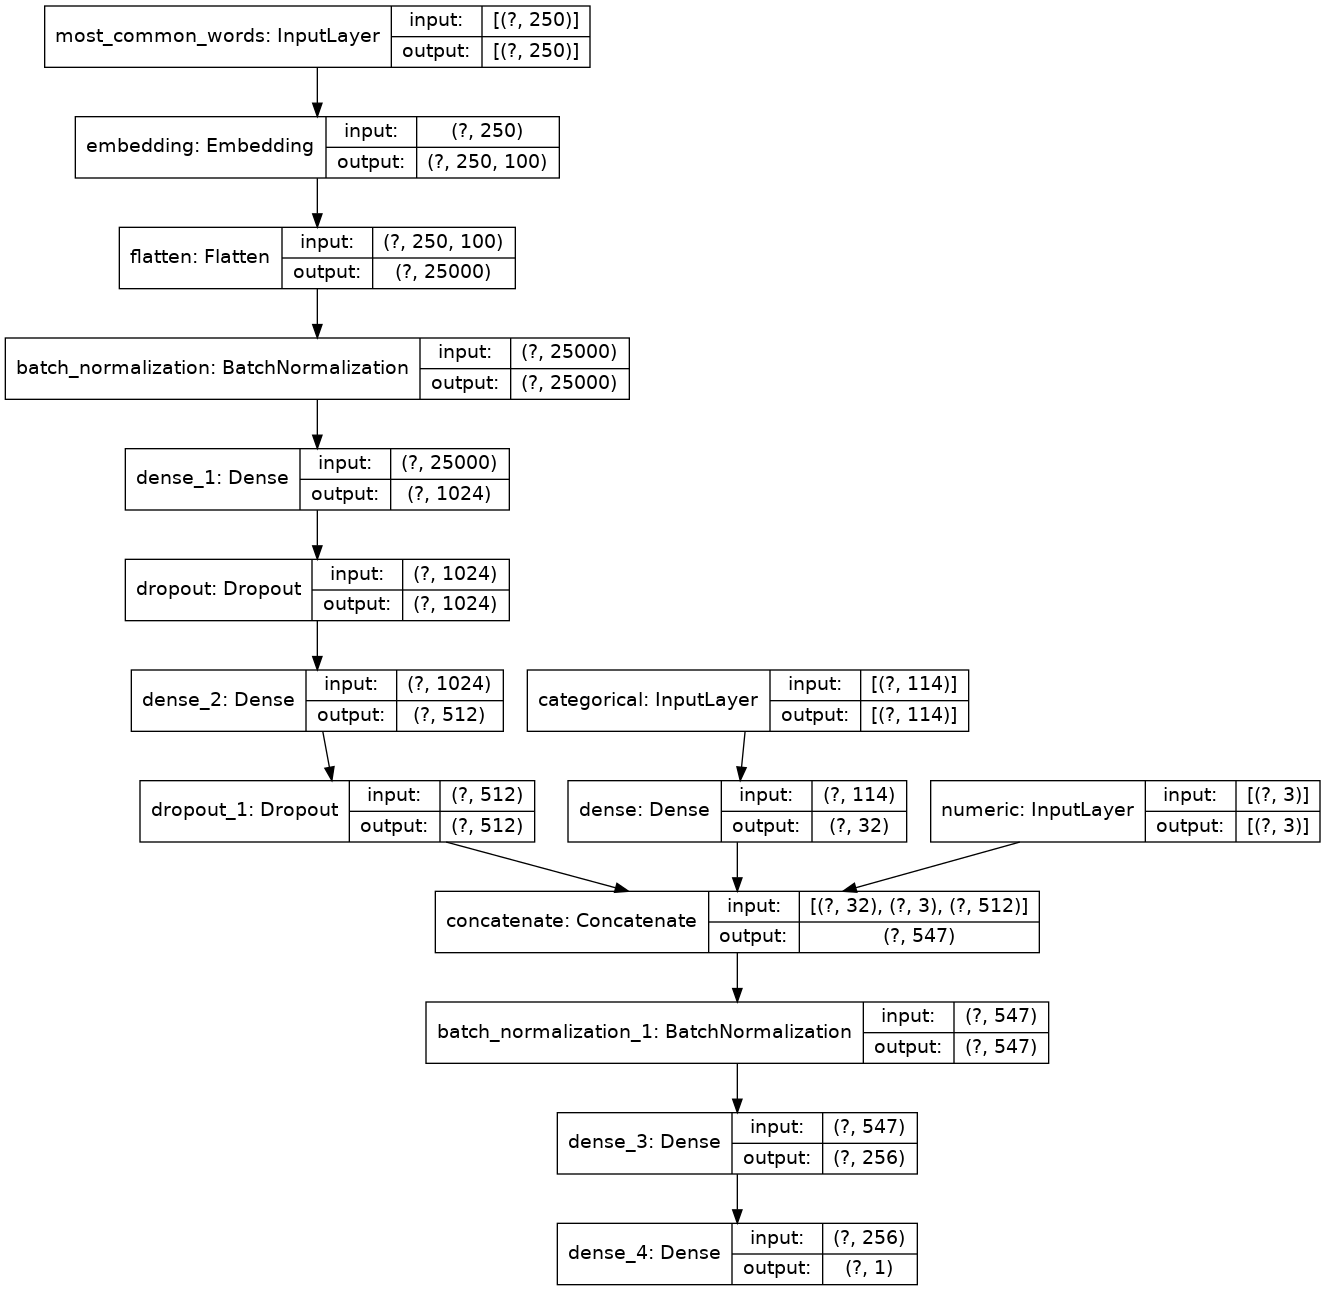
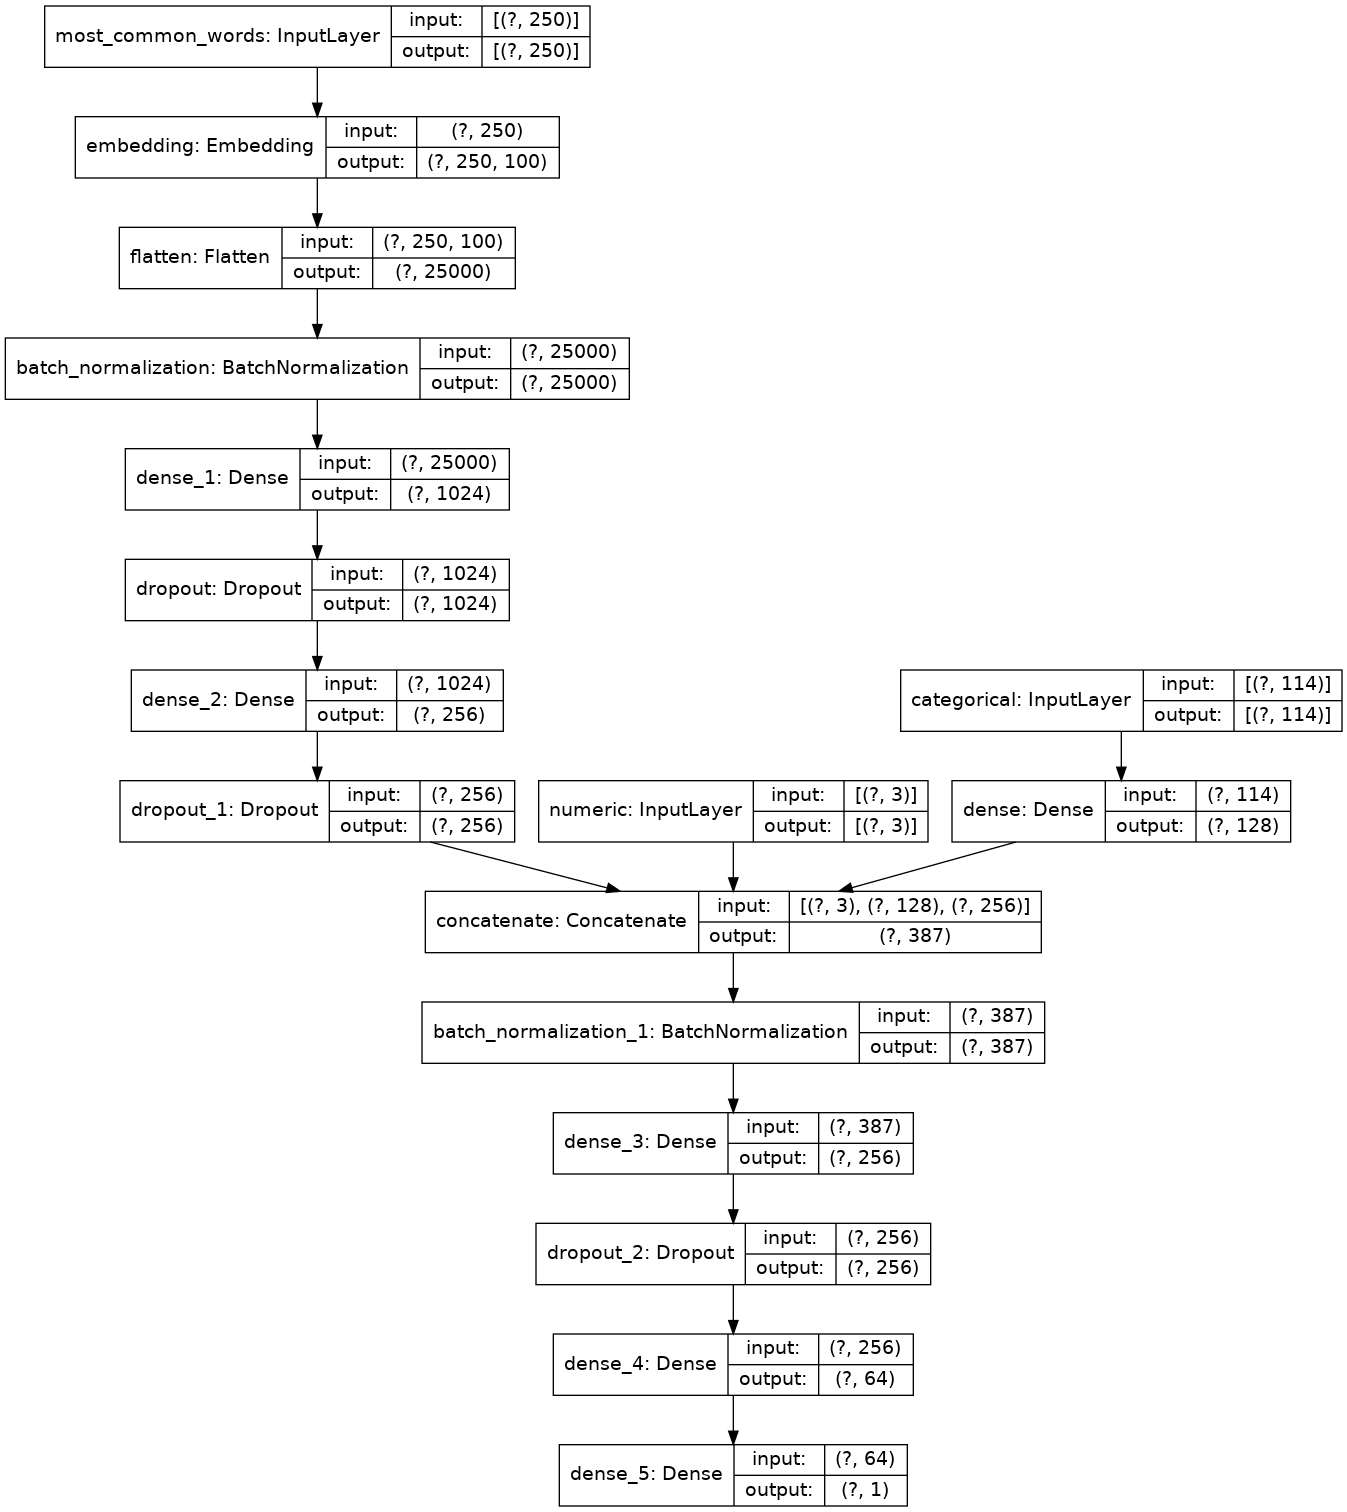
added script support

Changed region(s): [[0.0, 0.0, 1.0, 1.0]]

diff --git a/main.py b/main.py
@@ -154,10 +154,53 @@ def get_data(using_revenues):
 def load_data(X, freq_train):
     return {"numeric": X.T[:, 114:117], "categorical":  X.T[:,:114], "most_common_words": freq_train.T}
 
+def setup_numeric(inputs, features):
+    numeric_input = keras.Input(shape=(3,), name="numeric")
+    # Add inputs and features 
+    inputs.append(numeric_input)
+    features.append(numeric_input)
+
+def setup_categorical(inputs, features):
+    categorical_input = keras.Input(shape=(114,), name="categorical")
+    #create categorical features
+    categorical_features = Dense(128, activation='linear', use_bias=False)(categorical_input)
+    # Add inputs and features 
+    inputs.append(categorical_input)
+    features.append(categorical_features)
+
+def setup_frequency(inputs, features, word_index):
+    frequency_input = keras.Input(shape=(250,), name="most_common_words")
+    embedding_matrix, num_tokens, embedding_dim = create_word_embedding(word_index)
+    embedding_layer = Embedding(
+        num_tokens,
+        embedding_dim,
+        embeddings_initializer=keras.initializers.Constant(embedding_matrix),
+        trainable=False,
+    )
+
+    freq_features = embedding_layer(frequency_input)
+    freq_features = Flatten()(freq_features)
+
+    #preprocess word embeddings
+    freq_features = BatchNormalization()(freq_features)
+    freq_features = Dense(1024, kernel_regularizer=regularizers.l2(l2_param), activation='tanh')(freq_features)
+    freq_features = Dropout(dropout)(freq_features)
+    freq_features = Dense(256, kernel_regularizer=regularizers.l2(l2_param),  activation='tanh')(freq_features)
+    freq_features = Dropout(dropout)(freq_features)
+
+    inputs.append(frequency_input)
+    features.append(freq_features)
+
+
+
 if __name__ == "__main__":
     
     parser = argparse.ArgumentParser()
     parser.add_argument('--rev', action='store_true')
+    parser.add_argument('--num', action='store_true')
+    parser.add_argument('--cat', action='store_true')
+    parser.add_argument('--freq', action='store_true')
+
     args = parser.parse_args()
 
     word_index, X_train, y_train, freq_train, X_dev, freq_dev, y_dev, X_test, freq_test, y_test = get_data(args.rev)
@@ -168,44 +211,25 @@ if __name__ == "__main__":
     else: 
         utils.get_custom_objects().update({'custom_activation': Activation(score_out)})
 
-    l2_param = 0.003
+    l2_param = 0.005
     dropout = .0
 
-    #prepare inputs
-    numeric_input = keras.Input(shape=(3,), name="numeric")
-    categorical_input = keras.Input(shape=(114,), name="categorical")
-    frequency_input = keras.Input(shape=(250,), name="most_common_words")
-
-    #create categorical features
-    categorical_features = Dense(64, activation='linear', use_bias=False)(categorical_input)
-
-    #create frequency features
-    embedding_matrix, num_tokens, embedding_dim = create_word_embedding(word_index)
-
-    embedding_layer = Embedding(
-        num_tokens,
-        embedding_dim,
-        embeddings_initializer=keras.initializers.Constant(embedding_matrix),
-        trainable=False,
-    )
-
-    freq = embedding_layer(frequency_input)
-    freq = Flatten()(freq)
-
-    #preprocess word embeddings
-    freq = BatchNormalization()(freq)
-    freq = Dense(1024, kernel_regularizer=regularizers.l2(l2_param), activation='tanh')(freq)
-    freq = Dropout(dropout)(freq)
-    freq = Dense(256, kernel_regularizer=regularizers.l2(l2_param),  activation='tanh')(freq)
-    freq = Dropout(dropout)(freq)
-
-    # freq = Dropout(dropout)(freq)
-    # freq = Dense(512, kernel_regularizer=regularizers.l2(l2_param),  activation='tanh')(freq)
+    # Prepare inputs and features 
+    inputs = []
+    features = []
+    
+    if args.num:
+        setup_numeric(inputs, features)
+    if args.cat:
+        setup_categorical(inputs, features)
+    if args.freq:
+        setup_frequency(inputs, features, word_index)
 
     #concatenate all features
-    x = layers.concatenate([categorical_features, numeric_input, freq])
+    print(features)
+    x = layers.concatenate(features)
 
-    #fully connected netword
+    #fully connected network 
     #x = BatchNormalization()(x)
     #x = Dense(1024, kernel_regularizer=regularizers.l2(l2_param), activation='tanh')(x)
     x = BatchNormalization()(x)
@@ -215,19 +239,19 @@ if __name__ == "__main__":
     # x = Dropout(dropout)(x)
     # x = Dense(512,  kernel_regularizer=regularizers.l2(l2_param), activation='tanh')(x)
     x = Dropout(dropout)(x)
-    x = Dense(128,  kernel_regularizer=regularizers.l2(l2_param), activation='tanh')(x)
+    x = Dense(64,  kernel_regularizer=regularizers.l2(l2_param), activation='tanh')(x)
     # x = Dense(64,  kernel_regularizer=regularizers.l2(l2_param), activation='tanh')(x)
     outputs = Dense(1,  kernel_regularizer=regularizers.l2(l2_param), activation='custom_activation')(x)
 
     # Create model
     optimizer = keras.optimizers.Adam(lr=0.0002)
-    model = keras.Model([numeric_input, categorical_input, frequency_input], outputs, name="Script2Score")
+    model = keras.Model(inputs, outputs, name="Script2Score")
 
     # We use early stopping to prevent overfitting
     early_stopping = tf.keras.callbacks.EarlyStopping(
         monitor="val_loss",
         min_delta=0,
-        patience=300,
+        patience=3000,
         verbose=0,
         mode="auto",
         baseline=None,
@@ -245,19 +269,23 @@ if __name__ == "__main__":
               y_train.T,
               batch_size=500,
               epochs=4000,
-             # callbacks=[early_stopping],
+              callbacks=[early_stopping],
               verbose=1,
               validation_data=(load_data(X_dev, freq_dev), y_dev.T)
          )
-
-    score = model.evaluate(load_data(X_dev, freq_dev), y_dev.T)
 
     print(model.predict(load_data(X_dev, freq_dev)))
 
     # Summary of neural network, saved in 'model' folder
     model.summary()
 
-    keras.utils.plot_model(model, "multi_input_and_output_model.png", show_shapes=True)
-
-    model.save('model')
+    score = model.evaluate(load_data(X_dev, freq_dev), y_dev.T)
+    print("Dev set results:")
     print(score)
+
+    score = model.evaluate(load_data(X_test, freq_test), y_test.T)
+    print("Test set results:")
+    print(score)
+
+    # keras.utils.plot_model(model, "multi_input_and_output_model.png", show_shapes=True)
+    # model.save('model')

diff --git a/parse_scripts.py b/parse_scripts.py
@@ -2,32 +2,38 @@ from bs4 import BeautifulSoup
 import os
 
 
-meta_map = {}
 
-files = os.listdir('scripts')
-for file in files:
-    print(str(files.index(file)) + ' / ' + str(len(files)))
+def get_direction_str():
+    direction_dict = {}
+    files = os.listdir('scripts')
+    for file in files:
+        print(str(files.index(file)) + ' / ' + str(len(files)))
 
-    html = 'scripts/' + file
-    link = open(html)
+        html = 'scripts/' + file
+        link = open(html)
 
-    try:
-        soup = BeautifulSoup(link.read(), features="html.parser")
-    except UnicodeDecodeError:
-        frequency_dict[file] = 'UnicodeDecodeError'
-        continue
+        try:
+            soup = BeautifulSoup(link.read(), features="html.parser")
+        except UnicodeDecodeError:
+            direction_dict[file] = 'UnicodeDecodeError'
+            continue
 
-    for script in soup(["script", "style"]):  # not script in our sense, script in the soup module
-        script.extract()
+        for script in soup(["script", "style"]):  # not script in our sense, script in the soup module
+            script.extract()
 
-    print("Headers:")
-    print(len(soup.find_all('b')))
+        print("Headers:")
+        print(len(soup.find_all('b')))
 
-    meta_script = soup.find_all('b')[:50]
+        direction = map(lambda tag : tag.get_text(), soup.find_all('b')[:400])
+        direction_concat = ''.join(direction)
+        direction_concat = ''.join(filter(lambda x: x.isalpha() or x == " ", direction_concat)).lower()
+        print("len:" + str(len(direction_concat.split()[:150])))
+        direction_concat = " ".join(direction_concat.split()[:150])
 
-    start_string 
+        direction_dict[file] = direction_concat
 
-
+        print(direction_concat)
+    return direction_concat
 
 
 
